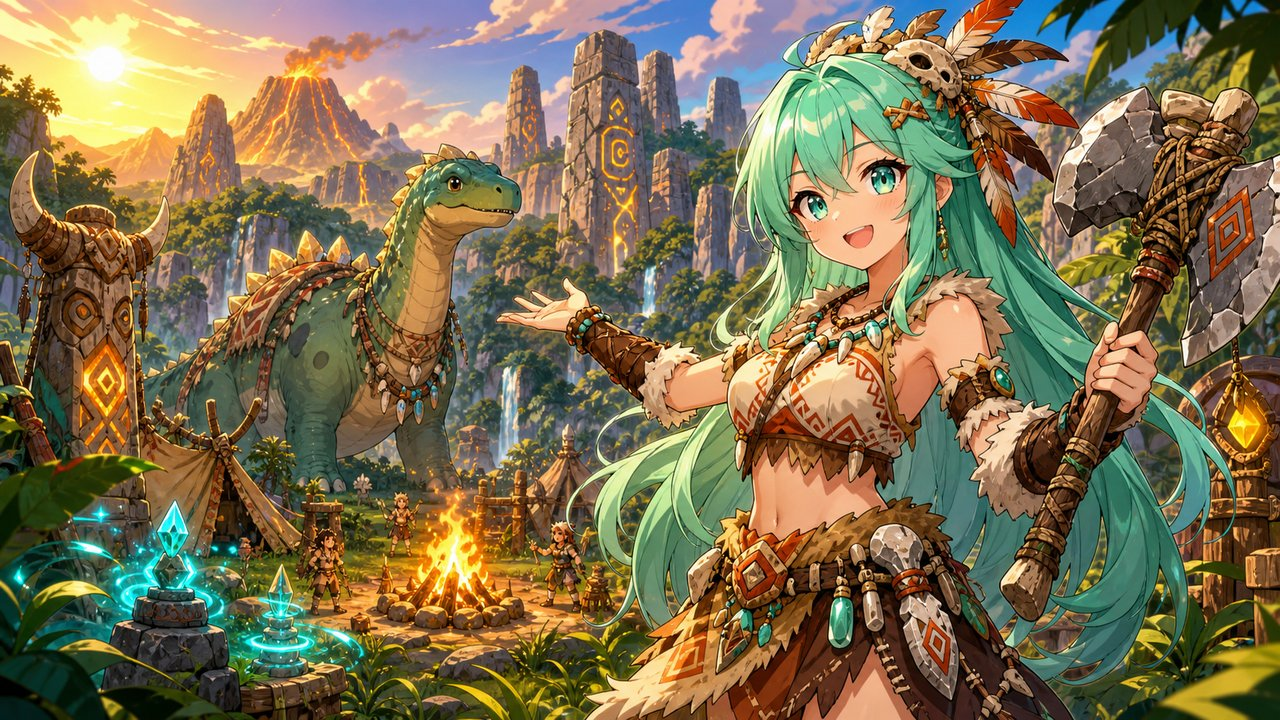
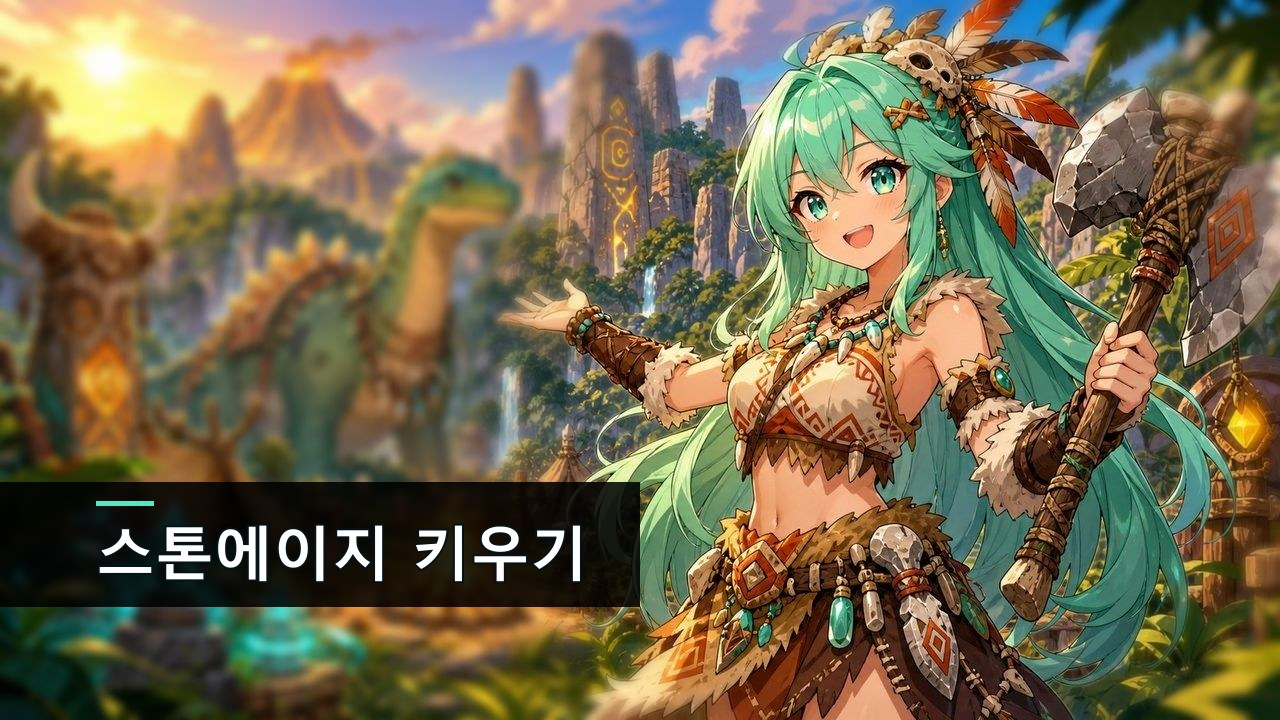
feat: 스톤에이지 썸네일 배경 블러 + 좌하단 제목, 검수 지적 반영
썸네일에 제목이 빠져 다른 편과 규격이 달랐다. 로지가 오른쪽에 서 있어
좌하단에 얹었다. 배경은 thumb-focus-blur.mjs 를 새로 만들어 로지 영역만
원본을 깃털 마스크로 되살리는 방식으로 흐렸다 — 전체 블러는 로지까지
뭉개고, vip-run.mjs:248 이 경계하는 "게임을 못 알아보는 blurred smear" 도
피해야 해서 얕은 심도만 준다.

내용 검수에서 나온 것:
- 게이트가 "10여 년"을 unsupported(major)로 잡았으나 이는 근거 번들에
  자료가 안 들어온 경우다. 헝그리앱 2015-07-22 기사로 한국 서비스 종료가
  2015년 8월 21일(넷마블게임즈)임을 확인해 연도를 명시하는 쪽으로 고쳤다.
- "글로벌 출시"는 중국·베트남 등 일부 국가가 제외된 출시라 단서를 달았다.

diff --git a/src/videos/2026-08-14-stone-age-idle.md b/src/videos/2026-08-14-stone-age-idle.md
@@ -1,6 +1,6 @@
 ---
 title: "스톤에이지 키우기 — 27년 된 석기시대 IP가 방치형으로"
-description: "1999년에 태어난 온라인 게임 '스톤에이지'가 방치형 RPG로 돌아왔습니다. 넷마블엔투가 개발하고 넷마블이 퍼블리싱했으며, 2026년 3월 3일 모바일(안드로이드·iOS)로 글로벌 출시됐습니다. 한국 서비스가 종료된 지 10여 년 만의 귀환이에요."
+description: "1999년에 태어난 온라인 게임 '스톤에이지'가 방치형 RPG로 돌아왔습니다. 넷마블엔투가 개발하고 넷마블이 퍼블리싱했으며, 2026년 3월 3일 모바일(안드로이드·iOS)로 중국·베트남 등 일부 국가를 제외한 글로벌 출시가 이뤄졌습니다. 2015년 8월 한국 서비스가 문을 닫은 지 10년 만의 귀환이에요."
 pubDate: 2026-08-14
 category: "New"
 hook: "10년 만에 돌아온 그 석기시대"
@@ -21,7 +21,7 @@ faq:
   - q: "'스톤에이지 키우기'는 누가 만드나요?"
     a: "넷마블엔투가 개발하고 넷마블이 퍼블리싱을 맡았어요."
   - q: "언제, 어디서 할 수 있나요?"
-    a: "2026년 3월 3일 글로벌 출시돼 지금 바로 즐길 수 있어요. 안드로이드와 iOS 모두 지원한답니다."
+    a: "2026년 3월 3일 출시돼 지금 바로 즐길 수 있어요. 구글 플레이와 앱스토어 모두 있고, 중국·베트남 등 일부 국가는 출시 대상에서 빠졌어요."
 coupang:
   - title: "스마트폰 게이밍 그립 컨트롤러"
     desc: "방치형이라도 손에 쥐고 오래 보게 되니, 그립 하나면 손목이 훨씬 편해져요."
@@ -67,6 +67,6 @@ scenes:
     chapter: "엔딩"
 ---
 
-1999년에 태어난 온라인 게임 '스톤에이지'가 방치형 RPG로 돌아왔습니다. 넷마블엔투가 개발하고 넷마블이 퍼블리싱했으며, 2026년 3월 3일 모바일(안드로이드·iOS)로 글로벌 출시됐습니다. 한국 서비스가 종료된 지 10여 년 만의 귀환이에요.
+1999년에 태어난 온라인 게임 '스톤에이지'가 방치형 RPG로 돌아왔습니다. 넷마블엔투가 개발하고 넷마블이 퍼블리싱했으며, 2026년 3월 3일 모바일(안드로이드·iOS)로 중국·베트남 등 일부 국가를 제외한 글로벌 출시가 이뤄졌습니다. 2015년 8월 한국 서비스가 문을 닫은 지 10년 만의 귀환이에요.
 
 *(이미지는 각 게임사·기관의 공식 스크린샷·홍보 이미지만 사용했습니다.)*
